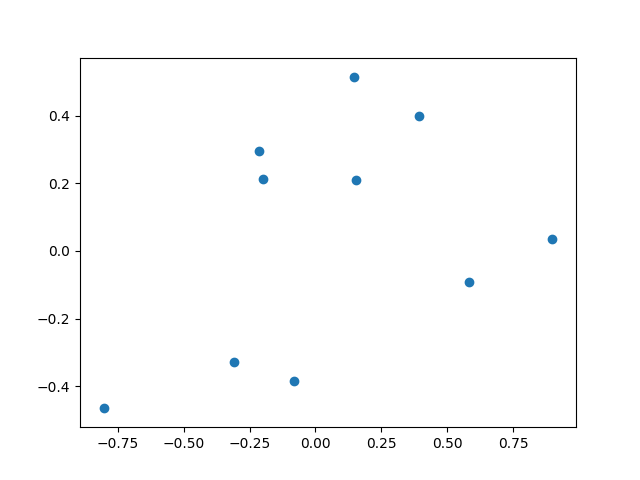
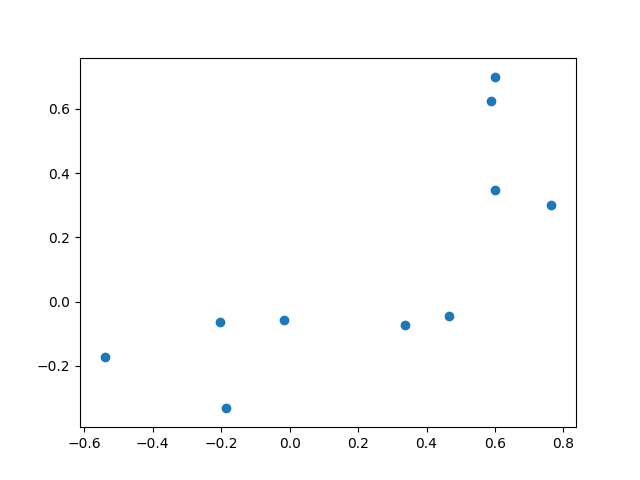
Bias and Standard Plots Fixed
:-P

diff --git a/src/5.1.py b/src/5.1.py
@@ -93,7 +93,7 @@ def main():
 
     plt.scatter(x_pop, y_pop)
     for j, txt in enumerate(movie_title):
-        plt.annotate(txt, (x[j], y[j]))
+        plt.annotate(txt, (x_pop[j], y_pop[j]))
     plt.savefig('Standard-popular.png')
     plt.clf()
 

diff --git a/src/5.2.py b/src/5.2.py
@@ -93,7 +93,7 @@ def main():
 
     plt.scatter(x_pop, y_pop)
     for j, txt in enumerate(movie_title):
-        plt.annotate(txt, (x[j], y[j]))
+        plt.annotate(txt, (x_pop[j], y_pop[j]))
     plt.savefig('Bias-popular.png')
     plt.clf()
 
